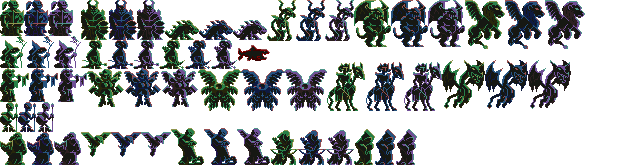
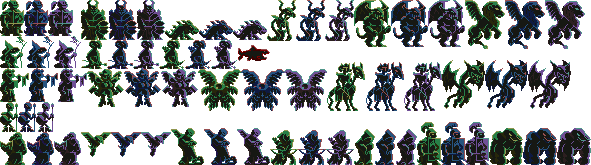
stuff

diff --git a/src/canvas/data.ts b/src/canvas/data.ts
@@ -860,7 +860,7 @@ class DataLoader {
             frameCount: 1,
             loop: false,
             offsetX: 0,
-            offsetY: 2
+            offsetY: 0
         });
         this.createAnimation({
             name: 'purple_red_herring',
@@ -873,7 +873,89 @@ class DataLoader {
             frameCount: 1,
             loop: false,
             offsetX: 0,
-            offsetY: 2
+            offsetY: 0
+        });
+
+        //legionnaire
+        this.createAnimation({
+            name: 'green_legionnaire',
+            textureName: 'units',
+            frameX: 417,
+            frameY: 122,
+            frameWidth: 24,
+            frameHeight: 43,
+            frameSpeed: 0,
+            frameCount: 1,
+            loop: false,
+            offsetX: 0,
+            offsetY: 7
+        });
+        this.createAnimation({
+            name: 'blue_legionnaire',
+            textureName: 'units',
+            frameX: 441,
+            frameY: 122,
+            frameWidth: 24,
+            frameHeight: 43,
+            frameSpeed: 0,
+            frameCount: 1,
+            loop: false,
+            offsetX: 0,
+            offsetY: 7
+        });
+        this.createAnimation({
+            name: 'purple_legionnaire',
+            textureName: 'units',
+            frameX: 465,
+            frameY: 122,
+            frameWidth: 24,
+            frameHeight: 43,
+            frameSpeed: 0,
+            frameCount: 1,
+            loop: false,
+            offsetX: 0,
+            offsetY: 7
+        });
+
+        //brute
+        this.createAnimation({
+            name: 'green_brute',
+            textureName: 'units',
+            frameX: 489,
+            frameY: 128,
+            frameWidth: 34,
+            frameHeight: 37,
+            frameSpeed: 0,
+            frameCount: 1,
+            loop: false,
+            offsetX: 0,
+            offsetY: 1
+        });
+        this.createAnimation({
+            name: 'blue_brute',
+            textureName: 'units',
+            frameX: 523,
+            frameY: 128,
+            frameWidth: 34,
+            frameHeight: 37,
+            frameSpeed: 0,
+            frameCount: 1,
+            loop: false,
+            offsetX: 0,
+            offsetY: 1
+        });
+        this.createAnimation({
+            name: 'purple_brute',
+            textureName: 'units',
+            frameX: 557,
+            frameY: 128,
+            frameWidth: 34,
+            frameHeight: 37,
+            frameSpeed: 0,
+            frameCount: 1,
+            loop: false,
+            offsetX: 0,
+            offsetY: 1
         });
     }
 

diff --git a/src/units.ts b/src/units.ts
@@ -230,6 +230,31 @@ export function getEnemyArmy(level: number, isDemon: boolean) {
 }
 
 // #region ANGELS
+const Legionnaire: ActorData = {
+    id: "legionnaire-data",
+    name: "Legionnaire",
+    description: "Stout shieldbearer whose duty resides on the front lines of battle.",
+    color: ActorColorType.GREEN,
+    rarity: ActorRarityType.UNCOMMON,
+    stats: {
+        level: 1,
+        maxHealth: 17,
+        pierceResist: 0.5,
+        pierceDamage: 0,
+        bluntResist: 0.5,
+        bluntDamage: 2,
+        magicResist: 0.5,
+        magicDamage: 0,
+        actionSpeed: 2500,
+        critChance: 0
+    },
+    action: {
+        type: ActorActionType.ATTACK,
+        range: 1,
+        targets: ActorActionTargetsType.SINGLE,
+    }
+};
+
 const Knight: ActorData = {
     id: "knight-data",
     name: "Knight",
@@ -540,10 +565,35 @@ const RedHerring: ActorData = {
     }
 } 
 
-const ALL_ANGELS = [Knight, Ranger, SinSlayer, Monk, HealMonk, Valkyrie, Penitent, Bugler, Eagle, Seraphim, Cherubim];
+const ALL_ANGELS = [Knight, Ranger, SinSlayer, Monk, HealMonk, Valkyrie, Penitent, Bugler, Eagle, Seraphim, Cherubim, Legionnaire];
 // #endregion
 
 // #region DEMONS
+const Brute: ActorData = {
+    id: "brute-data",
+    name: "Brute",
+    description: "A horrifically muscular meat shield meant for front line battle.",
+    color: ActorColorType.GREEN,
+    rarity: ActorRarityType.UNCOMMON,
+    stats: {
+        level: 1,
+        maxHealth: 17,
+        pierceResist: 0.5,
+        pierceDamage: 0,
+        bluntResist: 0.5,
+        bluntDamage: 2,
+        magicResist: 0.5,
+        magicDamage: 0,
+        actionSpeed: 2500,
+        critChance: 0
+    },
+    action: {
+        type: ActorActionType.ATTACK,
+        range: 1,
+        targets: ActorActionTargetsType.SINGLE,
+    }
+};
+
 const Dominator: ActorData = {
     id: "dominator-data",
     name: "Dominator",
@@ -823,5 +873,5 @@ const SkeletonKing: ActorData = {
     }
 }
 
-const ALL_DEMONS = [Dominator, Hellhound, Hellraiser, Balrog, Witch, HealWitch, ImpSoldier, ImpArcher, Skeleton, SkeletonKing, Drake];
+const ALL_DEMONS = [Dominator, Hellhound, Hellraiser, Balrog, Witch, HealWitch, ImpSoldier, ImpArcher, Skeleton, SkeletonKing, Drake, Brute];
 // #endregion

diff --git a/src/redux/actor-data.ts b/src/redux/actor-data.ts
@@ -66,7 +66,8 @@ export enum ActorOtherEffectsType {
     PIERCE,
     ACCURATE,
     THORNS,
-    INSTANT
+    INSTANT,
+    UNWAIVERING
 }
 
 export type ActorActionData = {
@@ -156,7 +157,7 @@ export const getInitialState = (): StoreData => {
                 statType: "bluntDamage",
                 value: 0,
                 increasePerLevel: 0.05,
-                image: "./img/icons/malletmaker.png"
+                image: "./img/icons/lumbermill.png"
             },
             {
                 name: "Mystic Hut",
@@ -183,7 +184,7 @@ export const getInitialState = (): StoreData => {
                 statType: "bluntResist",
                 value: 0,
                 increasePerLevel: 0.04,
-                image: "./img/icons/malletmaker.png"
+                image: "./img/icons/mason.png"
             },
             {
                 name: "Cathedral",
@@ -192,7 +193,7 @@ export const getInitialState = (): StoreData => {
                 statType: "magicResist",
                 value: 0,
                 increasePerLevel: 0.04,
-                image: "./img/icons/mystichut.png"
+                image: "./img/icons/cathedral.png"
             },
             {
                 name: "Barracks",
@@ -204,13 +205,13 @@ export const getInitialState = (): StoreData => {
                 image: "./img/icons/barracks.png"
             },
             {
-                name: "Training Ground",
+                name: "Training Grounds",
                 description: "Increases critical chance of all units.",
                 level: 0,
                 statType: "critChance",
                 value: 0,
                 increasePerLevel: 0.03,
-                image: "./img/icons/trainingground.png"
+                image: "./img/icons/traininggrounds.png"
             },
         ],
         gold: 0,

diff --git a/src/redux/store-slice.ts b/src/redux/store-slice.ts
@@ -68,7 +68,7 @@ const storeSlice = createSlice({
                     statType: "bluntDamage",
                     value: 0,
                     increasePerLevel: 0.05,
-                    image: "./img/icons/malletmaker.png"
+                    image: "./img/icons/lumbermill.png"
                 },
                 {
                     name: "Mystic Hut",
@@ -95,7 +95,7 @@ const storeSlice = createSlice({
                     statType: "bluntResist",
                     value: 0,
                     increasePerLevel: 0.04,
-                    image: "./img/icons/malletmaker.png"
+                    image: "./img/icons/mason.png"
                 },
                 {
                     name: "Cathedral",
@@ -104,7 +104,7 @@ const storeSlice = createSlice({
                     statType: "magicResist",
                     value: 0,
                     increasePerLevel: 0.04,
-                    image: "./img/icons/mystichut.png"
+                    image: "./img/icons/cathedral.png"
                 },
                 {
                     name: "Barracks",
@@ -116,15 +116,15 @@ const storeSlice = createSlice({
                     image: "./img/icons/barracks.png"
                 },
                 {
-                    name: "Training Ground",
+                    name: "Training Grounds",
                     description: "Increases critical chance of all units.",
                     level: 0,
                     statType: "critChance",
                     value: 0,
                     increasePerLevel: 0.03,
-                    image: "./img/icons/trainingground.png"
+                    image: "./img/icons/traininggrounds.png"
                 },
-            ];
+            ],
 
             state.playerTeam = {
                 actors: getStarterArmy(state.playerIsDemon),

diff --git a/src/canvas/constants.ts b/src/canvas/constants.ts
@@ -104,6 +104,8 @@ export const getOtherEffectsTypeDescription = (otherActionType: ActorOtherEffect
             return 'Thorns : 30% damage reflected back to attacker.'
         case ActorOtherEffectsType.INSTANT:
             return 'Instant : Damage dealt instantly instead of a projectile.'
+        case ActorOtherEffectsType.UNWAIVERING:
+            return 'Unwaivering : Unable to be cursed.'
         default:
             return '';
     }

diff --git a/src/canvas/actor.ts b/src/canvas/actor.ts
@@ -163,6 +163,10 @@ export class Actor {
     }
 
     curse(stat: ActorStatType, amount: number) {
+        if (this.data.action.otherActionEffect == ActorOtherEffectsType.UNWAIVERING) {
+            return; //can't be cursed
+        }
+        
         switch (stat) {
             case 'pierceResist':
                 this.pierceResist -= amount;
